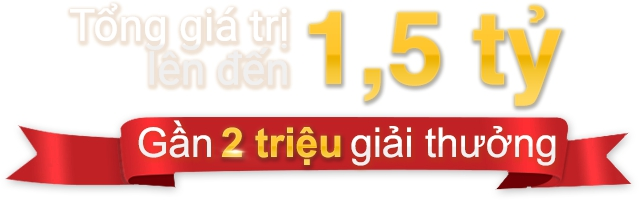
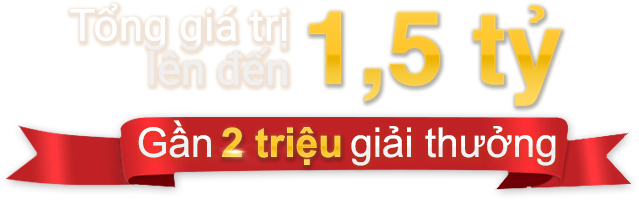
Change gift image and section-2-note into "total-award" div

diff --git a/css/style.css b/css/style.css
@@ -315,45 +315,19 @@ ul,li{
 	
 }
 
-.section-2 .section-2-note {
+.section-2 .total-award {
 	margin-top: 42%;
 	float: left;
 }
 
-.section-2 .section-2-note .note-1 {
-	background: -webkit-linear-gradient(top, #fff 48%, #f0f0f0 51%);
-	background: -moz-linear-gradient(top, #fff 48%, #f0f0f0 51%);
-	background: -o-linear-gradient(top, #fff 48%, #f0f0f0 51%);
-	background: -ms-linear-gradient(top, #fff 48%, #f0f0f0 51%);
-	background: linear-gradient(to bottom, #fff 48%, #f0f0f0 51%);
-	font-family: Arial;
-	font-size: 35px;
-	color: #fff;
-	float: left;
-	text-align:right;
-	text-shadow: 1px 2px 3px rgba(164,83,3,.17);
-	-webkit-background-clip: text;
-	-webkit-text-fill-color: transparent;
-}
-
-.section-2 .section-2-note .note-2 img{
+.section-2 .total-award img{
 	width: 100%;
-}
-
-.section-2 .section-2-note .note-2 {
-    float: left;
-    padding-left: 20px;
-    padding-top: 5px;
-}
-
-.section-2 .ribbon-img img{
-	width: 93%;
 }
 
 .section-2 .subcribe-form {
 	float: right;
     padding: 10px 0px 10px 5px;
-	margin: 5% 75px 10vh 0;
+	margin: 5% 10% 10vh 0;
 	width: 78%;
 	height: 95px;
 	-webkit-border-radius: 6px;
@@ -425,13 +399,9 @@ ul,li{
 	background-image: linear-gradient(to bottom, #ffc72e 14%, #eebc23 86%)
 }
 
-.section-2 .gift-image 
-{
-	margin-left: -5%;
-}
 
 .section-2 .gift-image img{
-	width: 110%;
+	width: 100%;
 	margin-top: 17%;
 }
 
@@ -618,25 +588,10 @@ footer {
 
 	/*	SECTION 2	*/
 
-	.section-2 .section-2-note {
+	.section-2 .total-award {
 	margin-top: 35%;
 	float: none;
 	display: block;
-	}
-
-	.section-2 .section-2-note .note-1 {
-	font-size: 6vw;
-	font-weight: bold;
-	margin-left: 5% ;
-	display: block;
-	}
-
-	.section-2 .section-2-note .note-2 img{
-	width: 38vw;
-	}
-
-	.section-2 .ribbon-img img{
-	width: 100%;
 	}
 
 	.section-2 .subcribe-form {
@@ -678,7 +633,7 @@ footer {
 	.section-2 .gift-image img{
 	width: 100%;
 	display: block;
-	margin: -15% auto 3% auto;
+	margin: -15% -8% 3% auto;
 	}
 
 	/*	SECTION 3	*/
@@ -748,8 +703,8 @@ footer {
 		padding-bottom: 6%;
 	}
 
-	.section-2 .section-2-note .note-2 {
-		padding-left: 10px;
+	.section-2 .subcribe-form {
+		margin-bottom: 5vh;
 	}
 
 }

diff --git a/index.html b/index.html
@@ -113,12 +113,9 @@
 				<div class="container">
 					<div class="row">
 						<div class="col-lg-6 col-md-6 col-sm-12 col-xs-12">
-							<div class="section-2-note">
-								<div class="note-1">Tổng giá trị<br/>lên đến</div>
-								<div class="note-2"><img src="images/1.2-ty.png"></div>
-							</div>
-							<div class="ribbon-img"> <!-- Use div here because in the official design, we may also have text instead of only image-->
-								<img src="images/ribbon.png">
+							<div class="total-award">
+								<img src="images/total-award.png">
+								<!-- <div class="note-1">Tổng giá trị<br/>lên đến</div><div class="note-2"><img src="images/1.2-ty.png"></div> -->
 							</div>
 							<div class="subcribe-form"> 
 								<div class="text">
@@ -132,7 +129,7 @@
 
 						<div class="col-lg-6 col-md-6 col-sm-12 col-xs-12">
 							<div class="gift-image">
-								<img src="images/gift.png">
+								<img src="images/gift-2.png">
 							</div>
 						</div>
 					</div>	
